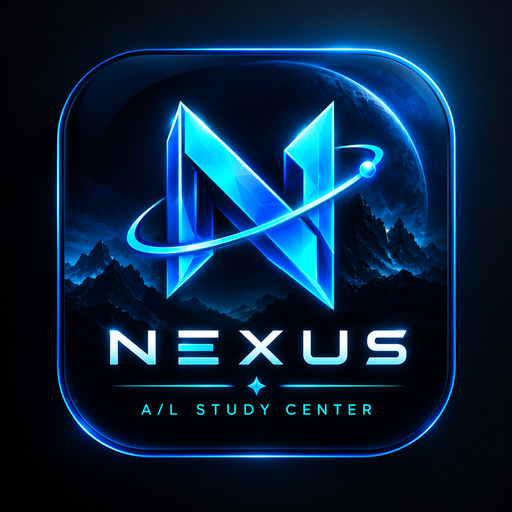
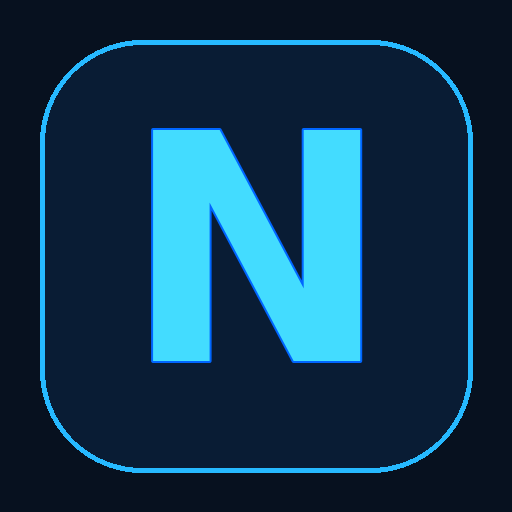
Add files via upload

diff --git a/index.html b/index.html
@@ -42,6 +42,11 @@ footer{text-align:center;color:#46627d;font-size:10px;padding:26px 0 0;letter-sp
 @media(max-width:1100px){.app{grid-template-columns:190px 1fr}.sidebar{padding:20px 10px}main{padding:22px 18px}.card{grid-column:span 6}.span8,.span12{grid-column:span 12}.span6{grid-column:span 6}.hero{align-items:flex-start;flex-direction:column}}
 @media(max-width:720px){.app{display:block}.sidebar{height:auto;position:relative;padding:12px;border-right:0;border-bottom:1px solid var(--line)}.brand{padding:3px 8px 12px}.nav-label,.side-bottom,.side-foot{display:none}.nav{flex-direction:row;overflow:auto}.nav button{white-space:nowrap;padding:10px}.nav button .ico{font-size:15px}.topbar{align-items:flex-start}.top-right .live{display:none}main{padding:18px 12px}.card,.span6,.span8,.span12{grid-column:span 12}.progress-layout{gap:15px}.ring{width:95px;height:95px}.hero{padding:20px}.subject-cards{grid-template-columns:1fr 1fr}.form-row{grid-template-columns:1fr}}
 </style>
+
+<link rel="manifest" href="manifest.json">
+<link rel="icon" type="image/png" sizes="192x192" href="nexus-192.png">
+<link rel="apple-touch-icon" href="nexus-192.png">
+<meta name="theme-color" content="#07111f">
 </head>
 <body>
 <div class="app">
